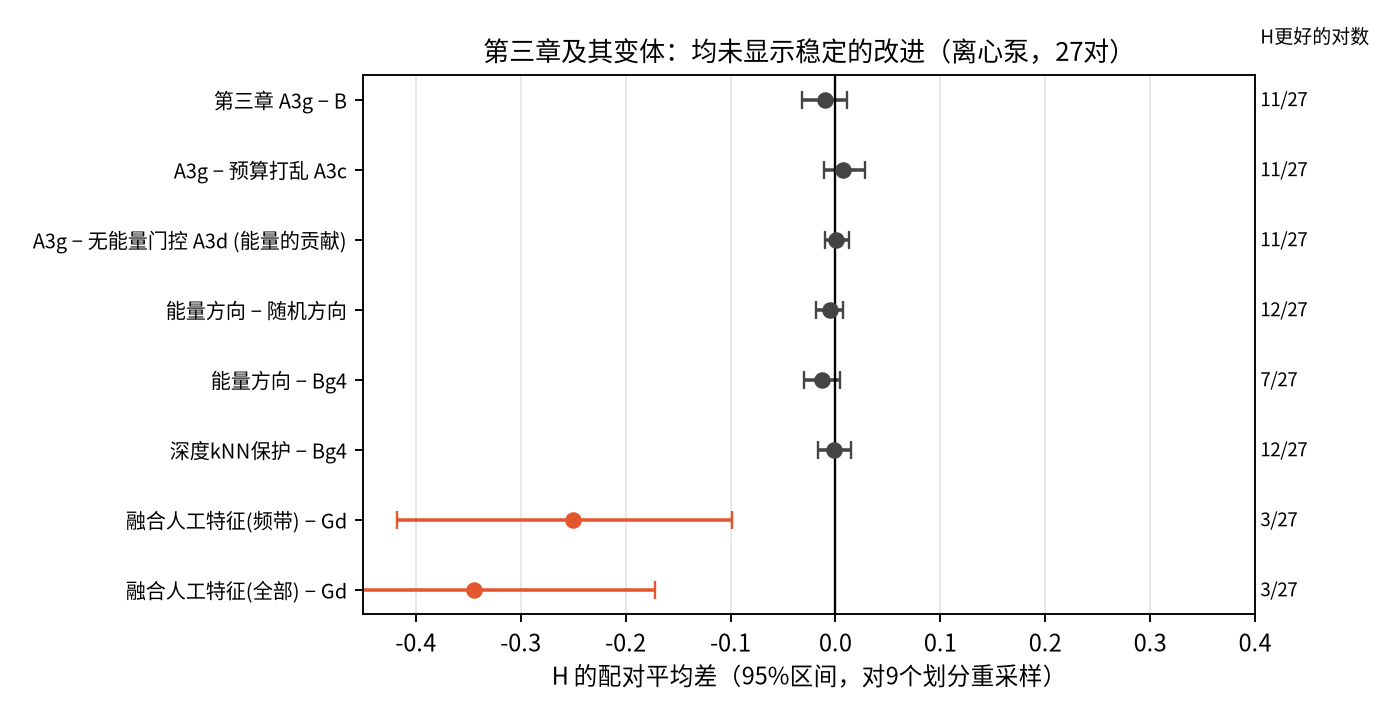
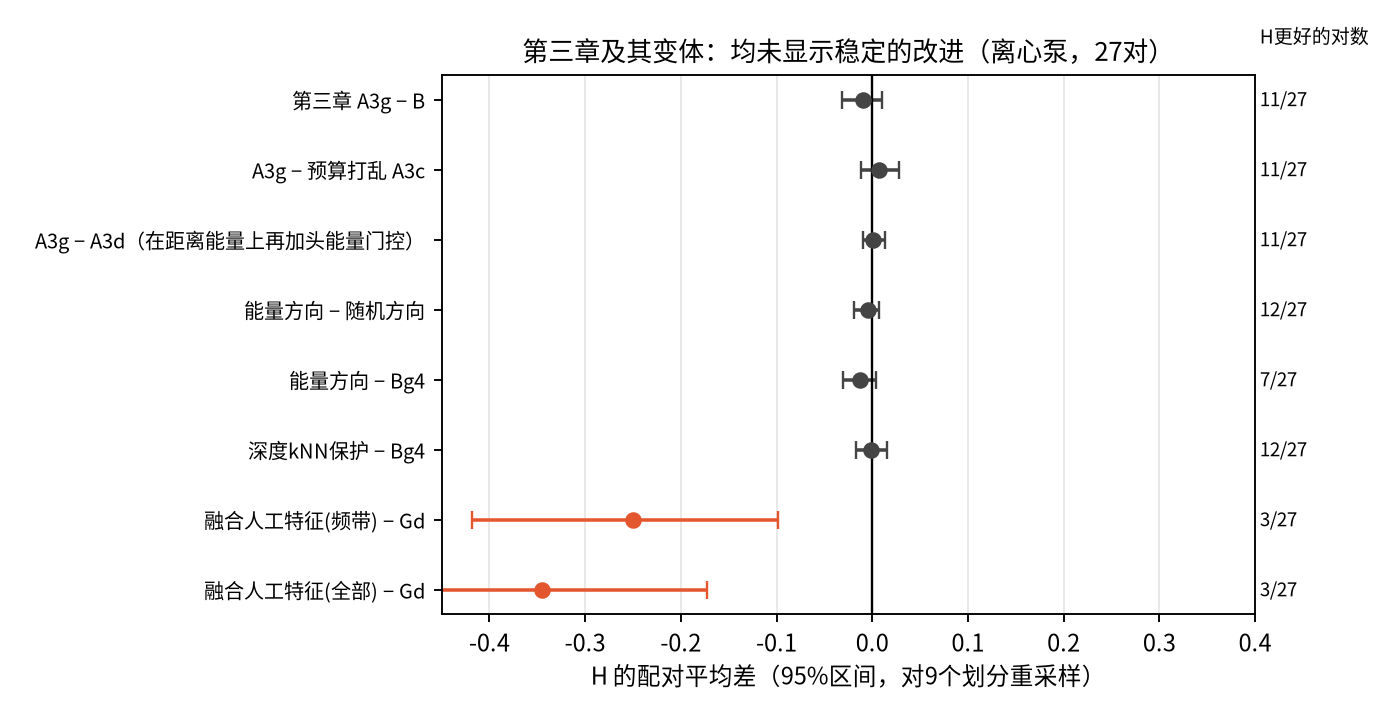
report-v22: strategy timeline, energy attempts tables, formula sheets and formula list; A3d label corrected

diff --git a/make_strategy_figs.py b/make_strategy_figs.py
@@ -1,0 +1,144 @@
+"""Strategy overview figures: energy attempts (two tables), week timeline, formula sheets (two pages).
+Numbers come from the summaries already used in the report (see 汇报材料 / 能量公式清单).
+Run: MPLCONFIGDIR=/tmp/mpl python make_strategy_figs.py"""
+import matplotlib
+matplotlib.use('Agg')
+import matplotlib.pyplot as plt
+from matplotlib import font_manager as fm
+from matplotlib.patches import Rectangle, FancyBboxPatch
+
+fm.fontManager.addfont('/projects/sandbox/pump/fonts/NotoSansSC.otf')
+plt.rcParams['font.family'] = fm.FontProperties(fname='/projects/sandbox/pump/fonts/NotoSansSC.otf').get_name()
+plt.rcParams['axes.unicode_minus'] = False
+COL = {'沿用': '#4c8bc9', '变差': '#e4572e', '无差异': '#9a9a9a', '淘汰': '#c9a227'}
+
+
+import re
+_TOK = re.compile(r"[A-Za-z0-9_.%+\-−→/≈≤²½·′()=<>:,~^*\[\]]+|\s+|.", re.S)
+_NOSTART = set('）)。，、；：！？”')
+
+
+def wrap(s, lim):
+    """wrap by display width (CJK = 1, ascii = 0.55) without breaking ascii tokens; closing punctuation never starts a line"""
+    out, cur, w = [], '', 0.0
+    for tok in _TOK.findall(s):
+        if tok == '\n': out.append(cur); cur, w = '', 0.0; continue
+        tw = sum(1.0 if ord(c) > 255 else 0.55 for c in tok)
+        if w + tw > lim and cur and not (tok[0] in _NOSTART and w + tw <= lim + 1.2):
+            out.append(cur); cur, w = '', 0.0
+            if tok.isspace(): continue
+        cur += tok; w += tw
+    out.append(cur)
+    return '\n'.join(out)
+
+
+def table(rows, title, fname, widths, header, fs=9.2):
+    """widths in INCHES (data units == inches). Characters per line follow from the font size."""
+    cw = fs / 72 * 1.04                                  # width of one CJK character in inches
+    lim = [(w - 0.2) / cw for w in widths[:-1]]
+    lh = fs / 72 * 1.5                                   # line height in inches
+    wrapped = [[wrap(str(c), l) for c, l in zip(r[:-1], lim)] for r in rows]
+    hs = [max(c.count('\n') + 1 for c in cells) * lh + 0.22 for cells in wrapped]
+    W = sum(widths); head_h = 0.42; title_h = 0.6; H = title_h + head_h + sum(hs) + 0.1
+    fig = plt.figure(figsize=(W, H)); ax = fig.add_axes([0, 0, 1, 1]); ax.set_xlim(0, W); ax.set_ylim(-H, 0); ax.axis('off')
+    ax.text(W / 2, -title_h / 2, title, ha='center', va='center', fontsize=14)
+    y = -title_h; x = 0
+    for h, w in zip(header, widths):
+        ax.add_patch(Rectangle((x, y - head_h), w, head_h, color='#333')); ax.text(x + w / 2, y - head_h / 2, h, ha='center', va='center', color='w', fontsize=fs + 0.8); x += w
+    y -= head_h
+    for cells, r, h in zip(wrapped, rows, hs):
+        x = 0
+        for c, w in zip(cells, widths[:-1]):
+            ax.add_patch(Rectangle((x, y - h), w, h, fc='#fafafa', ec='#cfcfcf', lw=0.6)); ax.text(x + 0.1, y - h / 2, c, ha='left', va='center', fontsize=fs, linespacing=1.4); x += w
+        ax.add_patch(Rectangle((x, y - h), widths[-1], h, fc=COL[r[-1]], ec='white', lw=0.6))
+        ax.text(x + widths[-1] / 2, y - h / 2, r[-1], ha='center', va='center', color='w', fontsize=fs + 1); y -= h
+    plt.savefig(fname, dpi=150); plt.close()
+
+
+HEAD = ['编号', '能量 / 距离的形式（怎么算）', '用在哪里（角色）', '数据与规模', '结果', '判定']
+WID = [0.5, 4.4, 2.6, 2.6, 3.8, 0.8]
+rows_a = [
+    ('1', '分类头自由能\nE_h = −log Σ_c exp(w_c·f(x)+b_c)', '已知性 K 的一部分（最早的版本）', 'Paderborn 单工况', '能量的 AUROC 只有 0.44（低于随机），原型分数 0.64：分类头能量方向反了', '淘汰'),
+    ('2', '距离能量（软 kNN）\nE_d = −T·log Σ_j exp(cos(f(x), l_j)/T)，T=0.05；T→0 即 kNN', '已知性 K（后处理主线），沿用至今', 'Paderborn、离心泵', '训练时纯距离 K 的 AUROC 0.80，高于门控 K 的 0.66。形式接近 Hopfield 能量和 kNN，不是创新点', '沿用'),
+    ('3', '门控融合\nK = w·q(−E_h) + (1−w)·q(kNN)，w = q(kNN)²', '控制每个样本的扰动预算（A3g）', 'Paderborn 12 个种子；离心泵 27 对', 'A3g 对 A3d（K=距离能量）：Paderborn −0.001（4/12），离心泵 +0.001（11/27）', '无差异'),
+    ('4', '余弦分类器能量（S1）\nt·log Σ_c exp(cos(f, w_c)/t)，t=0.1', '已知性 K（离线筛选）', '预热后的模型，2 个数据集', '离线筛选后淘汰（本次整理时没有保留具体数值）', '淘汰'),
+    ('5', '远处无标注样本校准的头能量（S2b）', '已知性 K（离线筛选）', '同上', 'Paderborn 与离心泵的结果不一致', '淘汰'),
+    ('6', '伪未知校准的头能量（S2a）\n头在冻结特征上重训：CE + 能量间隔损失', '已知性 K（离线筛选）', '同上', '能量本身明显变好（Paderborn 0.46→0.62；离心泵 C2 0.33→0.85），但与距离融合后超不过纯距离', '无差异'),
+    ('7', '能量—距离一致性\nR3 = R0·(1 − |q(−E_S2a) − q(kNN)|)', '并入可靠度 R（离线筛选）', '同上', '路由 AUROC 变差', '淘汰'),
+]
+table(rows_a, '能量 / 距离作为"已知性 K"：试过的形式', 'fig7a_energy_forms.png', WID, HEAD)
+
+rows_b = [
+    ('8', 'E1 能量间隔损失\nλ·[ReLU(E_in−m_in)² + ReLU(m_out−E_out)²]\nE = −log Σ exp(head(f))', '损失项：VMD 伪未知窗口能量要高，已标注窗口要低', 'Paderborn 6 个种子（CPU 初筛）', 'H 0.732（A3g 0.831），已知误判 0.13→0.40，0/6 更好；去掉能量的对照 E1d 几乎一样（0.729）', '变差'),
+    ('9', 'E2 能量语义保真\n保留条件：预测类别不变，且 E(x′) ≤ E(x) + tol', '约束：对判为已知的样本', '同上', 'H 0.838（A3g 0.831）；6 个种子里 4 个与 A3g 完全相同，约束几乎不起作用', '无差异'),
+    ('10', 'E3 模态能量敏感度\nS_m = ½(|E(x+0.5c_m)−E(x)| + |E(x−0.5c_m)−E(x)|)', '给每个样本、每个 VMD 模态分配扰动预算', '同上', 'H 0.771（A3g 0.831），1/5 更好', '变差'),
+    ('11', 'EDd 距离能量梯度方向\nu_m = λ·2·sign(s_K·∂E_d/∂a_m) + (1−λ)ε_m', '决定扰动方向（判为已知：能量升；判为未知：能量降），幅度上限不变', '离心泵 27 对（GPU）', '对随机方向 −0.005（12/27）；对 Bg4 −0.013（7/27）。沙箱初筛曾有 7/9 优于随机，没有重现', '无差异'),
+    ('12', 'EDh 分类头能量梯度方向\n同上，E 取 E_h', '同上', '离心泵 9 个划分，种子 0（沙箱）', 'H 0.617，比随机方向好 5/9；没有上 GPU', '无差异'),
+    ('13', 'EDd2：EDd + λ=1（纯能量方向）+ 扰动幅度加倍', '同上（事后探索）', '离心泵 9 个划分，种子 0（沙箱）', 'H 0.547（B 0.605），已知误判 0.56；扰动越强越差', '变差'),
+    ('14', '保护里换成距离 / 融合人工特征\nGd：深度 kNN；Gfs / Gfa：再加人工特征 kNN', '已知类保护的评分', '离心泵 27 对（GPU）', 'Gd 对 Bg4 −0.002（12/27）；Gfs −0.25、Gfa −0.35，C3 上未知召回接近 0', '变差'),
+]
+table(rows_b, '能量 / 距离进入增强与保护：试过的用法', 'fig7b_energy_roles.png', WID, HEAD)
+
+# ---------------------------------------------------------------- timeline
+stages = [
+    ('① 周初：第三章 v16–v17', '记录差异校准的 VMD 增强；\n门控能量 K 控制扰动预算', 'Paderborn：比 B +0.024（4/6）；\nA3g≈A3d，头能量门控无贡献', '无差异'),
+    ('② 能量的离线筛选', '余弦能量 S1、远样本校准 S2b、\n能量—距离一致性 S3、伪未知校准 S2a', '只有 S2a 让能量本身变好；\n其余淘汰', '淘汰'),
+    ('③ 让能量进入增强：E1 / E2 / E3', '能量间隔损失、语义保真、\n模态敏感度预算', '三个都没通过：E1 把已知误判\n推到 0.40，E3 变差，E2 不起作用', '变差'),
+    ('④ 换数据集，定位瓶颈', '离心泵：波形输入在新安装上\nAUROC 0.26–0.34（训练安装 0.99）', '改 4 通道频谱：H 0.441→0.646\n（27 对中 24 对更好）', '沿用'),
+    ('⑤ 保护校准 + 能量决定方向', '保护阈值按"留一安装"校准；\n能量梯度决定 VMD 扰动方向', '已知误判 0.304→0.177（H 持平）；\n能量方向对随机方向 −0.005（12/27）', '无差异'),
+    ('⑥ 保护里换距离 / 融合人工特征', '深度 kNN；\n深度 + 人工特征融合', 'kNN 与距离能量一样（−0.002）；\n融合人工特征明显变差', '变差'),
+]
+fig = plt.figure(figsize=(12.6, 8.0)); ax = fig.add_axes([0, 0, 1, 1]); ax.axis('off'); ax.set_xlim(0, 12.6); ax.set_ylim(0, 8.0)
+ax.text(6.3, 7.65, '本周能量引导策略的演进', ha='center', fontsize=15)
+for k, (n, c) in enumerate([('有效 / 沿用', COL['沿用']), ('无差异', COL['无差异']), ('淘汰', COL['淘汰']), ('变差', COL['变差'])]):
+    ax.add_patch(Rectangle((3.9 + k * 1.5, 7.02), 0.2, 0.2, color=c)); ax.text(4.18 + k * 1.5, 7.12, n, fontsize=9, va='center')
+for i, (t, did, res, v) in enumerate(stages):
+    cx, cy = (i % 3) * 4.2 + 0.1, 4.0 - (i // 3) * 2.95
+    ax.add_patch(FancyBboxPatch((cx, cy), 3.9, 2.65, boxstyle='round,pad=0.02', fc='#fafafa', ec='#999'))
+    ax.add_patch(Rectangle((cx, cy + 2.15), 3.9, 0.5, color=COL[v])); ax.text(cx + 0.12, cy + 2.4, t, va='center', color='w', fontsize=10.4)
+    ax.text(cx + 0.12, cy + 1.98, '做了什么', fontsize=8.6, color='#666', va='top'); ax.text(cx + 0.12, cy + 1.72, did, fontsize=9.6, va='top', linespacing=1.4)
+    ax.text(cx + 0.12, cy + 1.05, '结果', fontsize=8.6, color='#666', va='top'); ax.text(cx + 0.12, cy + 0.79, res, fontsize=9.6, va='top', linespacing=1.4)
+    if i % 3 < 2: ax.annotate('', xy=(cx + 4.17, cy + 1.3), xytext=(cx + 3.92, cy + 1.3), arrowprops=dict(arrowstyle='->', lw=1.5))
+ax.text(6.3, 0.42, '结论：能量作为"已知性""扰动多少""扰动方向"，在两个数据集上都没有稳定收益；\n瓶颈是跨安装差异，针对它的改动（4 通道频谱、留一安装校准）才有效。',
+        ha='center', va='center', fontsize=10.2, color='#a02020', linespacing=1.5)
+plt.savefig('fig8_timeline.png', dpi=150); plt.close()
+
+
+# ---------------------------------------------------------------- formula sheets
+def formula_sheet(items, title, fname, pitch=1.5):
+    H = 0.9 + pitch * len(items)
+    fig = plt.figure(figsize=(12.8, H)); ax = fig.add_axes([0, 0, 1, 1]); ax.axis('off'); ax.set_xlim(0, 12.8); ax.set_ylim(0, H)
+    ax.text(6.4, H - 0.4, title, ha='center', va='center', fontsize=14)
+    y = H - 0.95
+    for name, tex, note in items:
+        ax.text(0.2, y, name, fontsize=10.4, color='#111', va='center')
+        ax.text(0.55, y - 0.45, tex, fontsize=13, va='center')
+        ax.text(0.55, y - 0.85, wrap(note, 112), fontsize=8.8, color='#666', va='top', linespacing=1.3)
+        ax.plot([0.15, 12.65], [y - pitch + 0.18, y - pitch + 0.18], color='#ccc', lw=0.8)
+        y -= pitch
+    plt.savefig(fname, dpi=150); plt.close()
+
+
+FA = [
+    ('校准（所有已知性分数共用）', r'$q(v)=\sigma\!\left(\frac{v-v_{0.05}}{s}\right),\quad s=\frac{\mathrm{med}(v)-v_{0.05}}{\ln 19}$', 'v_0.05、med(v)：已标注窗口分数的 5% 分位数和中位数。校准后 q(5% 分位数)=0.5，q(中位数)=0.95'),
+    ('分类头自由能 E_h（越高越不像已知）', r'$E_h(x)=-\log\sum_c \exp\!\left(w_c^{\top}f(x)+b_c\right)$', 'f(x)：编码器 64 维特征。代码里的已知性分数用 +logsumexp，即 −E_h，越大越像已知'),
+    ('距离能量 E_d（越高越不像已知）', r'$E_d(x)=-T\log\sum_j \exp\!\left(\cos(f(x),l_j)/T\right),\quad T=0.05$', 'l_j：已标注窗口的特征。T→0 时变成 −max_j cos(f(x), l_j)，即 kNN。已标注窗口自己评分时排除自己（留一）'),
+    ('kNN 分数（用于门控和保护）', r'$d(x)=\max_j \cos(f(x),l_j)$', '越大越像已知。保护阈值用同样的分数，只是校准时排除同一安装的窗口'),
+    ('门控融合 K（A3g）', r'$K=w\,q(-E_h)+(1-w)\,q(d),\quad w=q(d)^{\gamma},\ \gamma=2$', '距离先判断样本是否落在已知支撑内，只有落在里面时头能量才有较大权重。A3d 则直接用 q(−E_d) 作为 K'),
+    ('可靠度 R', r'$R=\left(1-|K_1-K_2|\right)\cdot|K_1+K_2-1|$', 'K_1、K_2：同一窗口的两个弱增强视图的 K。前一项是稳定性，后一项是决断性（K 离 0.5 越远越大）'),
+    ('样本级扰动预算 κ', r'$\kappa=\kappa_{\min}+(1-\kappa_{\min})\,R\,[K+\rho(1-K)],\quad \kappa_{\min}=0.25,\ \rho=0.5$', '已标注窗口 κ=1。判为已知且可靠的样本扰动最大，不确定的样本最小'),
+]
+formula_sheet(FA, '能量 / 距离公式（一）：已知性、可靠度与预算', 'fig9a_formulas_K.png')
+
+FB = [
+    ('VMD 模态幅度扰动', r'$x^{\prime}=x+\sum_m\left(e^{a_m}-1\right)c_m,\qquad a_m=\frac{1}{2}\,u_m\,\kappa\,s_m$', 'c_m：第 m 个 VMD 模态；s_m = σ_rec,m·g_m：同类不同记录之间模态能量的自然差异；u_m ~ N(0,1) 截断到 ±2'),
+    ('E1 能量间隔损失', r'$L_{E1}=\lambda\left\{\mathrm{ReLU}(E_{in}-m_{in})^2+\mathrm{ReLU}(m_{out}-E_{out})^2\right\}$', 'E = −log Σ exp(head(f))；m_in = 已标注窗口能量中位数，m_out = m_in + max(2, 2·std)；λ=0.1；E_out 用 VMD 生成的伪未知窗口'),
+    ('E2 能量语义保真（接受条件）', r'$\mathrm{argmax}_c\,h_c(x^{\prime})=\mathrm{argmax}_c\,h_c(x)\ \wedge\ E(x^{\prime})\leq E(x)+\mathrm{tol}$', '只对判为已知的样本；h_c 是分类头输出；tol = 已标注窗口能量的标准差；不满足就把指数减半，最多 3 次，仍不满足则退回原窗口'),
+    ('E3 模态能量敏感度', r'$S_m=\frac{1}{2}\left(|E(x+0.5c_m)-E(x)|+|E(x-0.5c_m)-E(x)|\right)$', '预算 s_{x,m} = σ_rec,m · g_{x,m}，g_x = 1/(1 + S_m/mean(S))，再按平均值重新缩放，使平均预算和类级预算一致'),
+    ('能量对模态幅度的斜率', r'$g_m=\frac{\partial E}{\partial a_m}=\langle\nabla_x E,\;c_m\rangle$', '在 a=0 处求值：x 对 a_m 的导数正好是模态 c_m，所以一次反向传播就得到所有模态的斜率。E 取 E_d（EDd）或 E_h（EDh）'),
+    ('能量决定方向（EDd / EDh）', r'$u_m=\lambda\cdot2\cdot\mathrm{sign}\left(s_K\,g_m\right)+(1-\lambda)\,\varepsilon_m$', 's_K = +1（判为已知，K≥0.5：让能量升）或 −1（判为未知：让能量降）；λ=0.5；ε_m ~ N(0,1) 截断到 ±2；幅度上限仍由 κ·s_m 给出。随机对照 EDr 用随机符号'),
+    ('余弦分类器能量 S1（离线筛选）', r'$E_{cos}(x)=-t\log\sum_c\exp\!\left(\cos(f(x),w_c)/t\right),\quad t=0.1$', '代码里用 +t·logsumexp 作为已知性分数（越大越像已知）；w_c：分类头权重'),
+    ('能量—距离一致性 S3（离线筛选）', r'$R_3=R_0\cdot\left(1-|q(-E_{S2a})-q(d)|\right)$', 'E_S2a：头在冻结特征上用伪未知窗口重训后的能量；R_0 就是上面的可靠度 R'),
+]
+formula_sheet(FB, '能量 / 距离公式（二）：进入增强的用法', 'fig9b_formulas_aug.png')
+print('ok')

diff --git a/make_report.py b/make_report.py
@@ -37,7 +37,7 @@ def paired(a, b, col):
 # ---------------------------------------------------------------- table 1: all methods
 cols = ['H', 'known_acc', 'unk_recall', 'known_false_unk', 'unk_cluster_acc']
 names = {'B_old': '旧基线：通道4 + 波形', 'B': '新基线B：4通道 + 频谱', 'Bg3': 'B + 留一安装保护 q=0.3', 'Bg4': 'B + 留一安装保护 q=0.4（主方法）',
-         'Bg5': 'B + 留一安装保护 q=0.5', 'v19_A3g': '第三章增强 A3g（能量—距离门控K）', 'v19_A3d': '第三章增强 A3d（无能量门控）',
+         'Bg5': 'B + 留一安装保护 q=0.5', 'v19_A3g': '第三章增强 A3g（能量—距离门控K）', 'v19_A3d': '第三章增强 A3d（K=距离能量，无头能量门控）',
          'v19_A3c': '第三章增强 A3c（预算打乱对照）', 'EDdg': '第三章：能量决定方向 EDdg', 'EDrg': '第三章：随机方向 EDrg（对照）',
          'Gd': '保护换深度kNN距离 Gd', 'Gfs': '保护融合人工特征（频带）Gfs', 'Gfa': '保护融合人工特征（全部）Gfa'}
 t1 = d.groupby('method')[cols].mean().loc[list(names)].round(3)
@@ -46,7 +46,7 @@ t1.to_csv('table1_all_methods.csv', encoding='utf-8-sig')
 
 # ---------------------------------------------------------------- table 2: paired comparisons
 pairs = [('B', 'B_old', '新基线 vs 旧基线（4通道+频谱）'), ('Bg4', 'B', '留一安装保护 vs 新基线'), ('Bg4', 'B_old', '主方法 vs 旧基线'),
-         ('v19_A3g', 'B', '第三章 A3g vs B'), ('v19_A3g', 'v19_A3c', 'A3g vs 预算打乱 A3c'), ('v19_A3g', 'v19_A3d', 'A3g vs 无能量门控 A3d'),
+         ('v19_A3g', 'B', '第三章 A3g vs B'), ('v19_A3g', 'v19_A3c', 'A3g vs 预算打乱 A3c'), ('v19_A3g', 'v19_A3d', 'A3g vs A3d（距离能量之上加头能量门控）'),
          ('EDdg', 'EDrg', '能量方向 vs 随机方向'), ('EDdg', 'Bg4', '能量方向 vs Bg4'), ('Gd', 'Bg4', '深度kNN保护 vs Bg4'),
          ('Gfs', 'Gd', '融合人工特征（频带）vs Gd'), ('Gfa', 'Gd', '融合人工特征（全部）vs Gd')]
 rows = []
@@ -120,7 +120,7 @@ ax.set_title('保护阈值是一条工作曲线：用未知召回换已知准确
 plt.tight_layout(); plt.savefig('fig4_guard_curve.png', dpi=170); plt.close()
 
 # ---------------------------------------------------------------- fig5: negative results (paired delta H)
-neg = [('v19_A3g', 'B', '第三章 A3g − B'), ('v19_A3g', 'v19_A3c', 'A3g − 预算打乱 A3c'), ('v19_A3g', 'v19_A3d', 'A3g − 无能量门控 A3d (能量的贡献)'),
+neg = [('v19_A3g', 'B', '第三章 A3g − B'), ('v19_A3g', 'v19_A3c', 'A3g − 预算打乱 A3c'), ('v19_A3g', 'v19_A3d', 'A3g − A3d（在距离能量上再加头能量门控）'),
        ('EDdg', 'EDrg', '能量方向 − 随机方向'), ('EDdg', 'Bg4', '能量方向 − Bg4'), ('Gd', 'Bg4', '深度kNN保护 − Bg4'),
        ('Gfs', 'Gd', '融合人工特征(频带) − Gd'), ('Gfa', 'Gd', '融合人工特征(全部) − Gd')]
 fig, ax = plt.subplots(figsize=(8.2, 4.2))

diff --git a/能量公式清单.md b/能量公式清单.md
@@ -1,0 +1,106 @@
+# 本周用到的能量 / 距离公式清单
+
+对应图：`fig9a_formulas_K.png`、`fig9b_formulas_aug.png`（公式图），`fig7a_energy_forms.png`、`fig7b_energy_roles.png`（每个公式的用法与结果），`fig8_timeline.png`（策略演进）。
+公式都是从代码里逐条核对过的；所在函数和命令行参数写在每条后面，方便你回查。
+
+## 0. 符号和约定
+- f(x)：编码器对窗口 x 的 64 维特征。l_j：已标注窗口的特征（j 遍历所有已标注窗口）。cos：余弦相似度。
+- **两种符号约定**：论文里写"能量 E"，越高越不像已知；代码里的已知性分数是它的相反数（越大越像已知）。下面每条都写明了。
+- σ 是 sigmoid。T = 0.05（`--energy-T`）。
+
+## 1. 校准（所有已知性分数共用）
+```
+q(v) = σ( (v − v_0.05) / s ),      s = ( med(v) − v_0.05 ) / ln 19
+```
+- v_0.05、med(v)：已标注窗口分数的 5% 分位数和中位数。校准后 q(5% 分位数) = 0.5，q(中位数) = 0.95。
+- 代码：`kr_modules.fit_scorer`（`calib_q = 0.05`）。
+
+## 2. 已知性分数的各种形式
+
+| 编号 | 公式 | 说明 | 代码 / 参数 |
+|---|---|---|---|
+| a | 分类头自由能 E_h(x) = −log Σ_c exp(w_cᵀ f(x) + b_c) | 越高越不像已知。已知性分数用 −E_h | `--k-score fused` 中的能量部分 |
+| b | 原型分数 s(x) = max_c cos(f(x), p_c)，p_c：已标注窗口的类均值（归一化） | 越大越像已知 | `--k-score proto` |
+| c | 融合 K = α·q(−E_h) + (1−α)·q(s)，α = 0.5 | 最早的版本（v1–v5） | `--k-score fused` |
+| d | kNN：d(x) = max_j cos(f(x), l_j) | 越大越像已知；已标注窗口自己评分时排除自己（留一） | `--k-score knn` |
+| e | **距离能量** E_d(x) = −T·log Σ_j exp( cos(f(x), l_j) / T )，T = 0.05 | 越高越不像已知。T→0 时变成 −max_j cos = −d(x)，即 kNN | `--k-score denergy`，`--energy-T` |
+| f | **门控融合** K = w·q(−E_h) + (1−w)·q(d)，w = q(d)^γ，γ = 2 | 距离先判断样本是否落在已知支撑内；只有在里面时头能量才有较大权重 | `--k-score gated`，`--gate-gamma` |
+
+用法：
+- 后处理主线（未知簇初始化、可靠区域的挑选等）用 `--k-score denergy`。
+- 第三章训练时的 K：A3g 用 `--k-score-train gated`；**A3d 没有设 `--k-score-train`，所以 K = q(−E_d)（距离能量）**。因此 A3g 对 A3d 检验的是"在距离能量之上再加分类头能量门控"有没有用，不是"有没有能量"。
+
+## 3. 可靠度与扰动预算
+```
+R = ( 1 − |K1 − K2| ) · | K1 + K2 − 1 |
+κ = κ_min + (1 − κ_min) · R · [ K + ρ (1 − K) ],      κ_min = 0.25,  ρ = 0.5
+```
+- K1、K2：同一窗口两个弱增强视图的 K。前一项是稳定性，后一项是决断性（K 离 0.5 越远越大）。已标注窗口 κ = 1。
+- 代码：`kr_modules.compute_kr`（R），`kr_modules.budget_v2`（κ）；`--kr2-kmin`、`--kr2-rho`。
+
+## 4. VMD 模态幅度扰动
+```
+x′ = x + Σ_m ( e^{a_m} − 1 ) · c_m,        a_m = ½ · u_m · κ · s_m
+```
+- c_m：第 m 个 VMD 模态（共 8 个）；s_m = σ_rec,m · g_m：同类不同记录之间模态对数能量的自然差异；u_m ~ N(0,1) 截断到 ±2。
+- 保真检查：扰动前后的对数谱距离不超过同类不同记录之间的中位距离，否则指数减半，最多 3 次，仍不满足则退回原窗口。
+- 代码：`kr_modules.aug_vmd_nuisance`（多通道版本 `_aug_vmd_nuisance_mc`）。
+
+## 5. 能量进入增强的用法
+**E1 能量间隔损失**（`--e1-lam 0.1`）
+```
+L_E1 = λ { ReLU(E_in − m_in)² + ReLU(m_out − E_out)² },     E = −log Σ_c exp(head(f))
+```
+- E_in：已标注窗口的能量；E_out：用 VMD 生成的伪未知窗口的能量（把类别区分度高的模态推远：x_pu = x + Σ_m (exp(½·sgn·mag·3·disc_m) − 1)·c_m，disc_m = (1−g_m)·σ_cls,m）。
+- m_in = 预热结束时已标注窗口能量的中位数；m_out = m_in + max(2, 2·std)。
+
+**E2 能量语义保真**（`--e2-fidelity`）
+```
+保留增强结果  ⇔  argmax_c h_c(x′) = argmax_c h_c(x)  且  E(x′) ≤ E(x) + tol
+```
+- 只对判为已知（K ≥ 0.5）的样本；tol = 已标注窗口能量的标准差。
+
+**E3 模态能量敏感度**（`--e3-sens`）
+```
+S_m = ½ ( |E(x + 0.5·c_m) − E(x)| + |E(x − 0.5·c_m) − E(x)| )
+s_{x,m} = σ_rec,m · g_{x,m},      g_x = 1 / ( 1 + S_m / mean(S) ),  再按平均值重新缩放
+```
+
+## 6. 能量决定扰动方向（EDd / EDh）（`--edir dist|head|random`，`--edir-lam`）
+```
+g_m = ∂E/∂a_m |_{a=0} = ⟨ ∇_x E , c_m ⟩
+u_m = λ · 2 · sign( s_K · g_m ) + (1 − λ) · ε_m
+```
+- 因为 x 对 a_m 的导数在 a=0 处正好是模态 c_m，所以一次反向传播就得到全部模态的斜率。
+- s_K = +1（判为已知，K ≥ 0.5：让能量升高）或 −1（判为未知：让能量降低）。
+- E 取距离能量 E_d（EDd）或分类头能量 E_h（EDh）；ε_m ~ N(0,1) 截断到 ±2；λ = 0.5。
+- **幅度上限不变**，仍由 κ·s_m 给出；随机对照 EDr 用随机符号、同样的幅度。
+- 代码：`m2_paderborn_kr.py` 中的 `energy_direction_u`。
+
+## 7. 离线筛选里用过的变体（`work/screen_ch3_energy.py`，只用预热后的模型）
+- **S1 余弦分类器能量**：E_cos(x) = −t·log Σ_c exp( cos(f(x), w_c) / t )，t = 0.1；w_c 是分类头权重。代码里取 +t·logsumexp 作为已知性分数。
+- **S2a / S2b 重训的头能量**：头在冻结特征上重训，损失 = CE + λ·( ReLU(E_in − m_in)² + ReLU(m_out − E_out)² )，λ = 0.1，300 步，Adam 学习率 0.01。S2a 的 E_out 用 VMD 伪未知窗口；S2b 的 E_out 用未标注窗口里距离分数最低的 20%（不用标签）。
+- **S3 一致性**：R3 = R0 · ( 1 − | q(−E_S2a) − q(d) | )。
+
+## 8. 保护阈值（距离，不是能量，但在结果里一起出现）
+- 旧保护：score(x) = max_j cos(f(x), r_j)，参考窗口 r_j = 已标注窗口 + `--guard-expand 0.2` 选出的伪已知窗口；τ = 已标注窗口"留一窗口"得分的 40% 分位数。
+- **留一安装校准**（`--guard-group-key train_installation`）：每个已标注窗口只和**其他安装**的窗口比较，τ 取这个分布的 40% 分位数。
+- 融合版（Gd / Gfs / Gfa，`--guard-score knn / knn+spec / knn+all`）：score = ½·z(深度 kNN) + ½·z(人工特征 kNN)，z 用留一安装的得分分布标准化；kNN 取前 10 个最近邻的平均余弦。
+
+## 9. 出处，请自行核对原文
+- 分类头自由能：Liu 等，*Energy-based Out-of-distribution Detection*，NeurIPS 2020。
+- 距离能量 E_d 的形式接近现代 Hopfield 能量（Ramsauer 等，2020）；kNN 分数对应 Sun 等，*Out-of-Distribution Detection with Deep Nearest Neighbors*，ICML 2022（arXiv 2204.06507，本次会话里核实过摘要）。
+- 因此**这些公式本身不能作为创新点**；要主张的是它们在"面向跨安装偏移"的评测协议和校准里的组合。
+
+## 10. 结果速查
+| 用法 | 结果 |
+|---|---|
+| 分类头能量（原始） | Paderborn 上 AUROC 0.44，低于随机，被距离能量替代 |
+| 门控融合 vs 纯距离（A3g vs A3d） | Paderborn 12 个种子 −0.001（4/12）；离心泵 +0.001（11/27） |
+| E1 | H 0.732（A3g 0.831），已知误判 0.13 → 0.40，0/6 更好 |
+| E2 | 与 A3g 基本一样（6 个种子里 4 个完全相同） |
+| E3 | H 0.771（A3g 0.831） |
+| EDd 能量方向（GPU，27 对） | 对随机方向 −0.005（12/27）；对 Bg4 −0.013（7/27） |
+| EDh / EDd2（沙箱，只有 9 个划分、种子 0） | EDh 比随机方向好 5/9；EDd2 H 0.547（B 0.605） |
+| S1、S2b、S3（离线筛选） | 淘汰；S1 的具体数值没有保留 |
+| S2a（离线筛选） | 能量本身明显变好（Paderborn 0.46 → 0.62；离心泵 C2 0.33 → 0.85），但与距离融合后超不过纯距离 |

diff --git a/汇报材料_离心泵数据集.md b/汇报材料_离心泵数据集.md
@@ -130,7 +130,7 @@ q 越小，保护越强：已知误判越少，但未知也越容易被送回已
 |---|---|---|---|
 | 第三章 A3g 对 B | −0.010 | [−0.032, +0.010] | 11/27 |
 | A3g 对 预算打乱 A3c | +0.007 | [−0.011, +0.028] | 11/27 |
-| A3g 对 无能量门控 A3d（能量的贡献） | +0.001 | [−0.010, +0.013] | 11/27 |
+| A3g 对 A3d（A3d 的 K 是距离能量；A3g 在其上再加分类头能量门控，所以这行检验的是"头能量门控"有没有用） | +0.001 | [−0.010, +0.013] | 11/27 |
 | 能量决定方向 对 随机方向 | −0.005 | [−0.018, +0.007] | 12/27 |
 | 能量决定方向 对 Bg4 | −0.013 | [−0.031, +0.004] | 7/27 |
 | 深度 kNN 保护 对 Bg4 | −0.002 | [−0.017, +0.014] | 12/27 |
@@ -143,7 +143,7 @@ q 越小，保护越强：已知误判越少，但未知也越容易被送回已
 
 ### 4.5 副数据集 Paderborn（12 个种子，单工况）
 - A3g 对 B：H +0.025（8/12 个种子更好），勉强通过；
-- A3g 对 A3d（能量的贡献）：−0.001（4/12），没有贡献；
+- A3g 对 A3d：−0.001（4/12）。A3d 的 K 用距离能量，所以这检验的是"分类头能量门控"，没有贡献；
 - A3g 对 A3c（预算打乱）：+0.040（8/12），但几乎全靠种子 3 一个点（对照在该种子上掉了 0.37）。
 
 ---
@@ -195,3 +195,12 @@ kNN 距离（Sun 等，ICML 2022）和手工特征与深度特征融合都是已
 | 保护校准与能量方向 | `summary_v20_cf.csv` |
 | 保护融合人工特征 | `summary_v22_cf.csv`（含全部 243 次运行） |
 | 本材料的图表与脚本 | 本文件夹：`make_report.py`、`fig*.png`、`table*.csv` |
+
+
+---
+
+## 9. 补充材料：这一周能量相关的策略
+- `fig8_timeline.png`：本周策略的演进（6 个阶段）。
+- `fig7a_energy_forms.png`、`fig7b_energy_roles.png`：能量 / 距离的每种形式和每种用法，以及结果。
+- `fig9a_formulas_K.png`、`fig9b_formulas_aug.png`、`能量公式清单.md`：用到的全部公式，附代码位置和参数。
+- 注意：A3d 的 K 用的是距离能量，所以"A3g 对 A3d"检验的是分类头能量门控，不是"有没有能量"。
